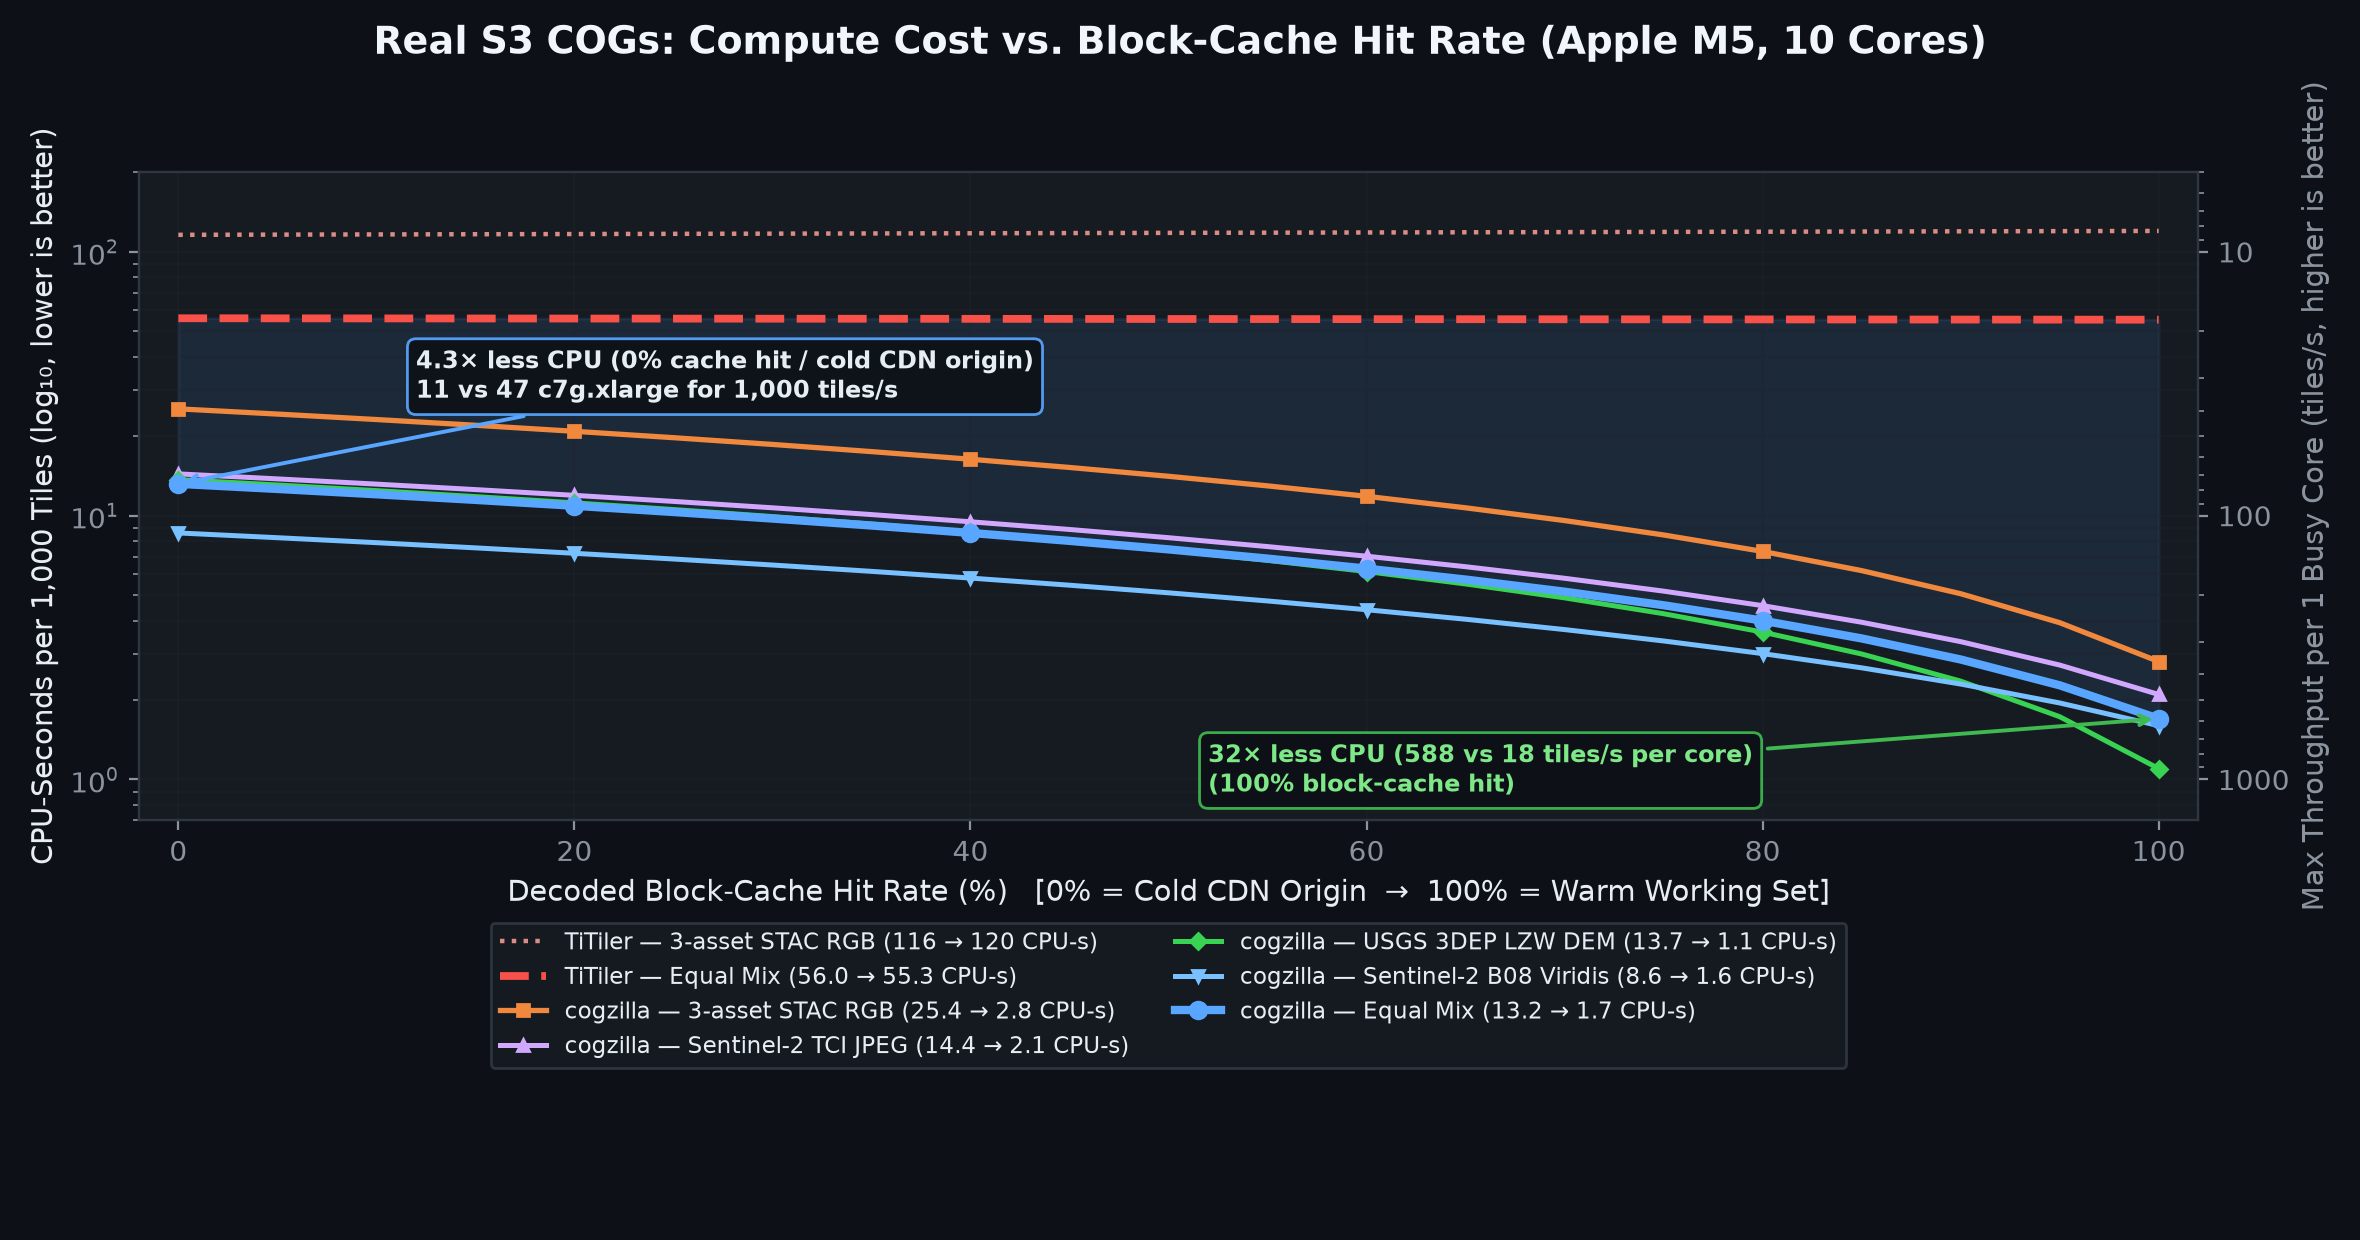
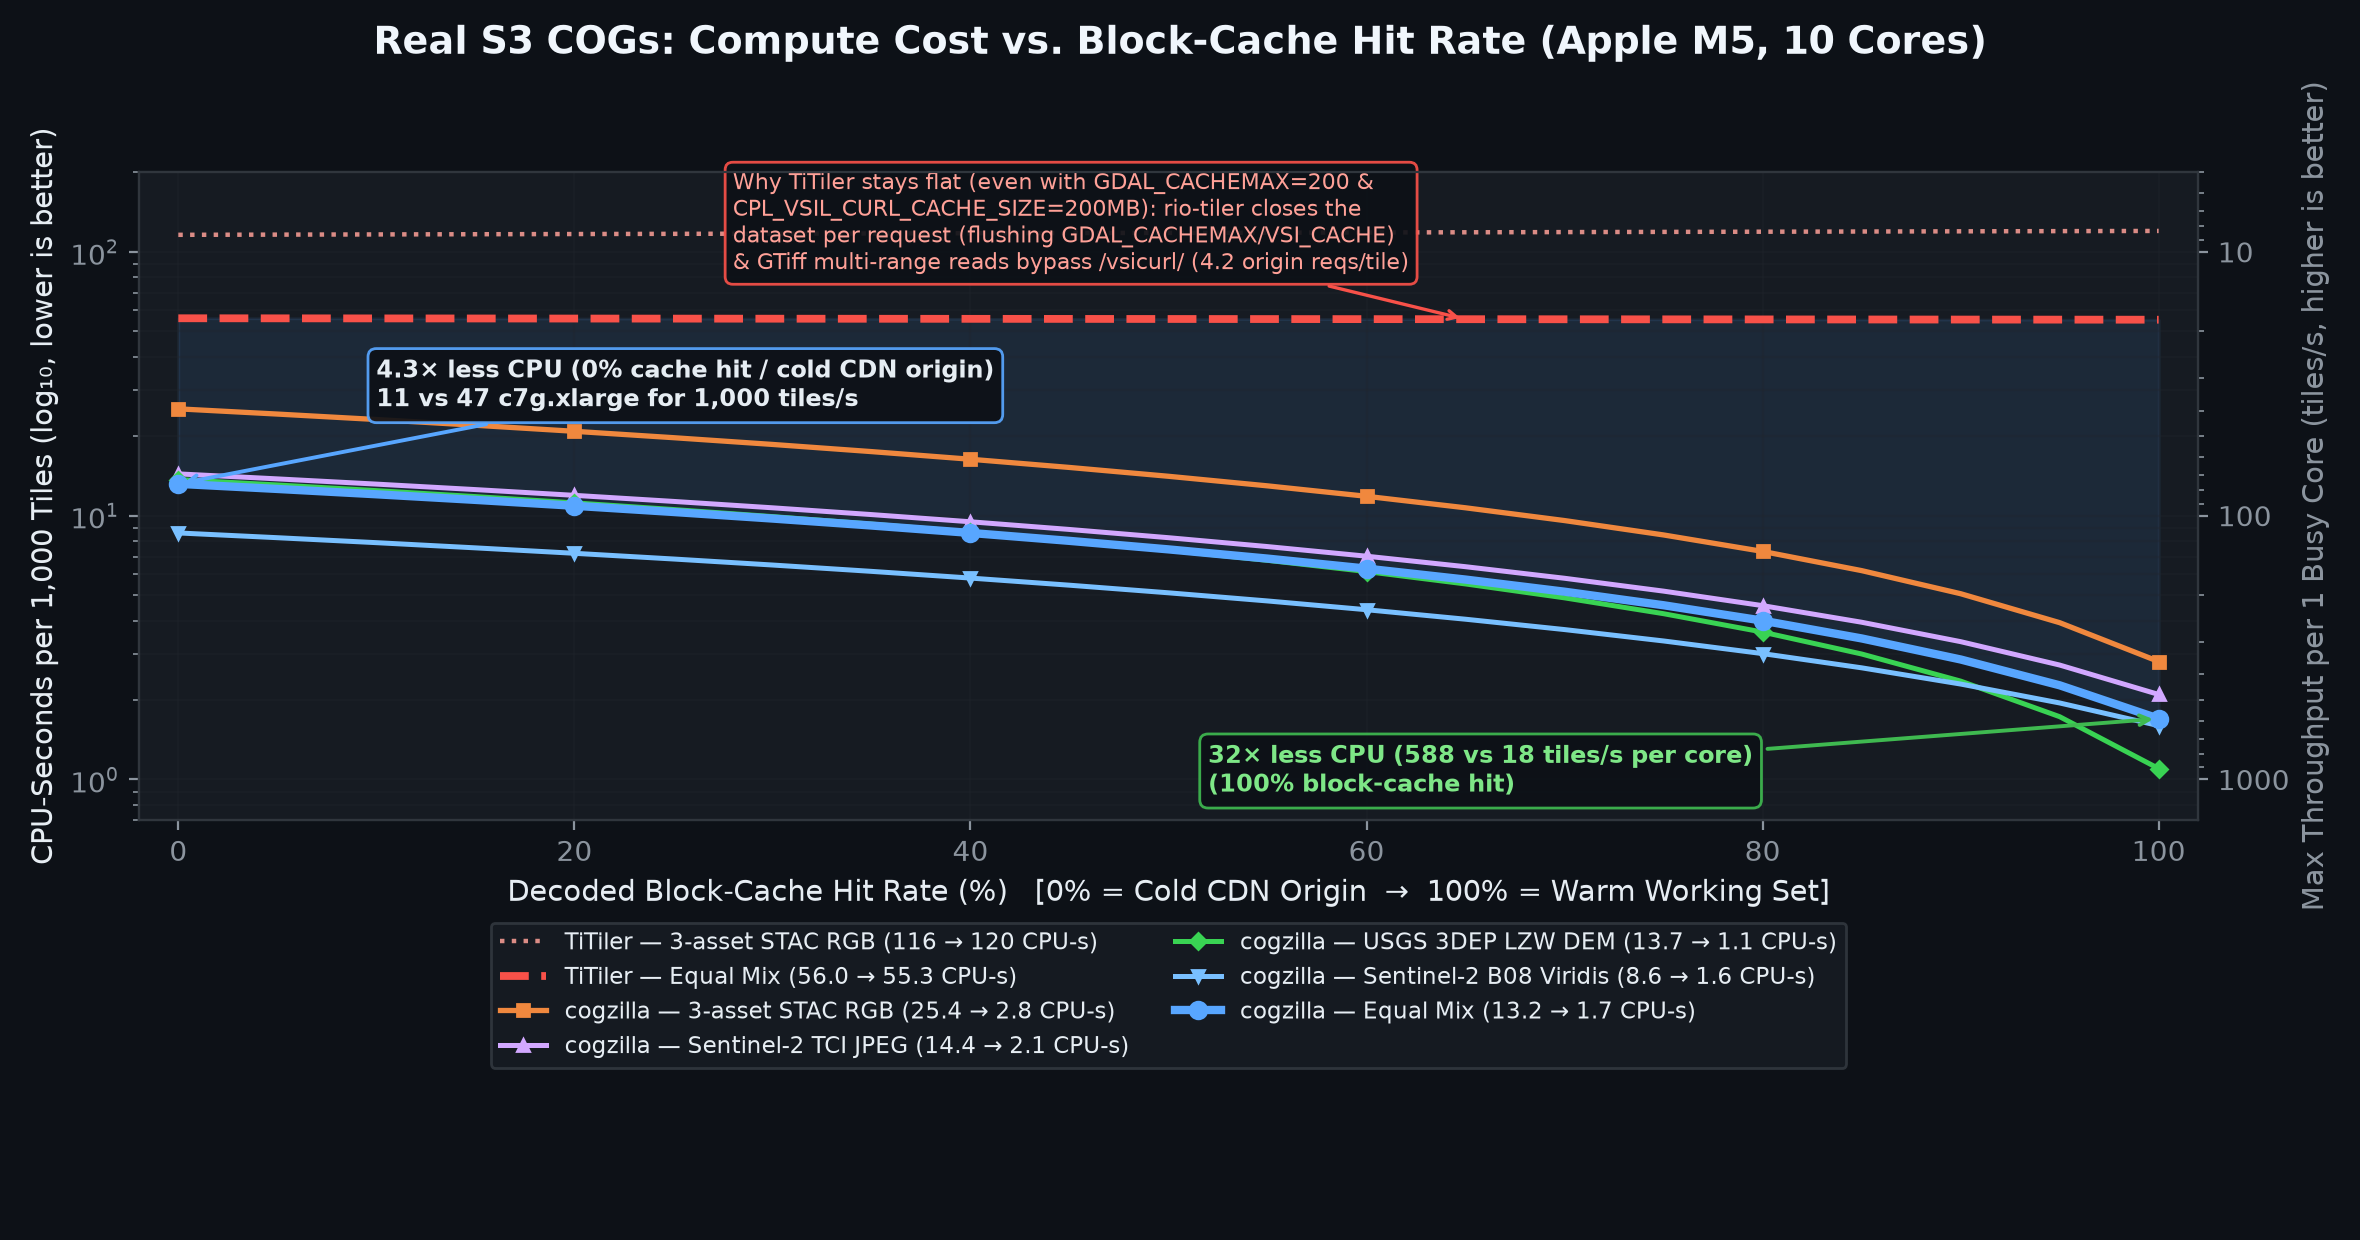
docs(benchmarks): add dedicated 2x2 GPU acceleration chart and document verified GDAL/TiTiler caching behavior

Changed region(s): [[0.1547, 0.1226, 0.6186, 0.3677], [0.4949, 0.5823, 0.7424, 0.6129], [0.5877, 0.2452, 0.6186, 0.2758]]

diff --git a/benches/plot_benchmarks.py b/benches/plot_benchmarks.py
@@ -387,16 +387,23 @@ def render_s3_cache_scaling() -> None:
 
     ax1.annotate(
         "4.3× less CPU (0% cache hit / cold CDN origin)\n11 vs 47 c7g.xlarge for 1,000 tiles/s",
-        xy=(0, 13.2), xytext=(12, 28),
+        xy=(0, 13.2), xytext=(10, 26),
         arrowprops=dict(arrowstyle="->", color=C_RTX, lw=1.4),
-        fontsize=8.8, fontweight="bold",
+        fontsize=8.6, fontweight="bold",
         bbox=dict(boxstyle="round,pad=0.35", fc="#0d1117", ec=C_RTX, alpha=0.92),
+    )
+    ax1.annotate(
+        "Why TiTiler stays flat (even with GDAL_CACHEMAX=200 &\nCPL_VSIL_CURL_CACHE_SIZE=200MB): rio-tiler closes the\ndataset per request (flushing GDAL_CACHEMAX/VSI_CACHE)\n& GTiff multi-range reads bypass /vsicurl/ (4.2 origin reqs/tile)",
+        xy=(65, 55.5), xytext=(28, 86),
+        arrowprops=dict(arrowstyle="->", color=C_TT, lw=1.2),
+        fontsize=7.9, color="#ffa198",
+        bbox=dict(boxstyle="round,pad=0.35", fc="#0d1117", ec=C_TT, alpha=0.92),
     )
     ax1.annotate(
         "32× less CPU (588 vs 18 tiles/s per core)\n(100% block-cache hit)",
         xy=(100, 1.7), xytext=(52, 0.9),
         arrowprops=dict(arrowstyle="->", color=C_M5G, lw=1.4),
-        fontsize=8.8, fontweight="bold", color="#7ee787",
+        fontsize=8.6, fontweight="bold", color="#7ee787",
         bbox=dict(boxstyle="round,pad=0.35", fc="#0d1117", ec=C_M5G, alpha=0.92),
     )
 
@@ -409,9 +416,131 @@ def render_s3_cache_scaling() -> None:
     plt.close(fig)
 
 
+def render_gpu_scaling() -> None:
+    """Graph 4 (2x2): Dedicated GPU acceleration overview — heavy single-request endpoints
+    (1-core CPU vs Metal vs Vulkan latency & speedup) and sustained map-server soak
+    (CPU-only vs GPU auto continuous batching throughput & latency, 3x medians at 3787b88)."""
+    fig, ((ax1, ax2), (ax3, ax4)) = plt.subplots(2, 2, figsize=(14.5, 9.8), dpi=200)
+    fig.suptitle(
+        "GPU Acceleration (wgpu Metal & Vulkan) — Heavy Endpoints & Sustained Map-Server Soak",
+        fontsize=14, fontweight="bold", y=0.985, color="#f0f6fc",
+    )
+
+    workloads = [
+        "4096² UTM→WGS84\nGrid2D Stats",
+        "2048² 4-Band\n/cog/statistics",
+        "4096² Polygon\nMasked Stats",
+        "4096² RGB\nLanczos3 JPEG",
+        "2048² Exact\n4-Band Zonal",
+        "2048²×12 Median\nMosaic → JPEG",
+    ]
+    rtx_ms = np.array([1.33, 1.37, 4.36, 32.26, 36.29, 31.12])
+    m5g_ms = np.array([8.93, 5.28, 7.64, 56.53, 17.66, 33.12])
+    rtx_sp = np.array([702.5, 424.5, 85.5, 405.3, 9.4, 7.7])
+    m5g_sp = np.array([42.5, 47.7, 23.6, 85.7, 5.8, 4.4])
+    tr_cpu_ms = rtx_ms * rtx_sp
+    m5_cpu_ms = m5g_ms * m5g_sp
+
+    # Top-Left (A): Heavy Endpoints Latency (ms, log10)
+    x = np.arange(len(workloads))
+    ax1.plot(x, tr_cpu_ms, "-^", color=C_TR,  lw=2.2, ms=7.0, label="Threadripper 3960X CPU (1 core)")
+    ax1.plot(x, m5_cpu_ms, "-D", color=C_M5C, lw=2.2, ms=6.5, label="Apple M5 CPU (1 core)")
+    ax1.plot(x, m5g_ms,    "-s", color=C_M5G, lw=2.5, ms=7.0, label="Apple M5 GPU (Metal, floor ≈ 1.5 ms)")
+    ax1.plot(x, rtx_ms,    "-o", color=C_RTX, lw=2.5, ms=7.0, label="RTX 3090 Ti (Vulkan, floor ≈ 50 µs)")
+
+    ax1.set_yscale("log")
+    ax1.set_ylim(0.5, 40000)
+    ax1.set_xticks(x)
+    ax1.set_xticklabels(workloads, fontsize=8.0)
+    ax1.set_ylabel("Single-Request Latency (ms, log₁₀, lower is better)")
+    ax1.set_title("A. Heavy Endpoints: 1-Core CPU vs. Metal vs. Vulkan")
+    ax1.grid(True, axis="y", which="both", alpha=0.35)
+    ax1.legend(loc="upper right", fontsize=7.9, framealpha=0.92)
+
+    # Top-Right (B): Heavy Endpoints GPU Speedup (vs 1-core CPU)
+    w = 0.36
+    ax2.bar(x - w / 2, rtx_sp, width=w, color=C_RTX, alpha=0.92, label="RTX 3090 Ti (Vulkan) vs 1-core 3960X")
+    ax2.bar(x + w / 2, m5g_sp, width=w, color=C_M5G, alpha=0.92, label="Apple M5 (Metal) vs 1-core M5")
+
+    ax2.set_yscale("log")
+    ax2.set_ylim(1, 2200)
+    ax2.set_xticks(x)
+    ax2.set_xticklabels(workloads, fontsize=8.0)
+    ax2.set_ylabel("Speedup vs. 1-Core CPU (×, log₁₀, higher is better)")
+    ax2.set_title("B. Heavy Endpoints: GPU Speedup Factor")
+    ax2.grid(True, axis="y", which="both", alpha=0.35)
+    for i in range(len(workloads)):
+        ax2.text(x[i] - w / 2, rtx_sp[i] * 1.12, f"{rtx_sp[i]:.0f}×" if rtx_sp[i] >= 10 else f"{rtx_sp[i]:.1f}×",
+                 ha="center", va="bottom", fontsize=8.0, color="#79c0ff", fontweight="bold")
+        ax2.text(x[i] + w / 2, m5g_sp[i] * 1.12, f"{m5g_sp[i]:.0f}×" if m5g_sp[i] >= 10 else f"{m5g_sp[i]:.1f}×",
+                 ha="center", va="bottom", fontsize=8.0, color="#7ee787", fontweight="bold")
+    ax2.legend(loc="upper right", fontsize=8.0, framealpha=0.92)
+
+    # Bottom-Left (C): Sustained Map-Server Soak Throughput (RTX 3090 Ti vs 3960X 24C/48T, 3x med)
+    soak_lbls = [
+        "Pan & Zoom\n(16c mixed)",
+        "Mixed Tile Flood\n(32c, 0ms think)",
+        "Contention:\nLive Tiles (12c)",
+        "Contention:\nHeavy 2048² (2c)",
+    ]
+    tr_cpu_soak = [2215, 8400, 1828, 7]
+    rtx_soak    = [2560, 11197, 2183, 45]
+    xs = np.arange(len(soak_lbls))
+    ax3.bar(xs - w / 2, tr_cpu_soak, width=w, color=C_TR,  alpha=0.88, label="Threadripper 3960X CPU-only (24C/48T)")
+    ax3.bar(xs + w / 2, rtx_soak,    width=w, color=C_RTX, alpha=0.92, label="RTX 3090 Ti GPU auto (Vulkan coalesced)")
+
+    ax3.set_yscale("log")
+    ax3.set_ylim(2, 35000)
+    ax3.set_xticks(xs)
+    ax3.set_xticklabels(soak_lbls, fontsize=8.5)
+    ax3.set_ylabel("Throughput (req/s, log₁₀, higher is better)")
+    ax3.set_title("C. Sustained Soak Throughput (3960X + RTX 3090 Ti, 3× Medians)")
+    ax3.grid(True, axis="y", which="both", alpha=0.35)
+    for i in range(len(soak_lbls)):
+        ax3.text(xs[i] - w / 2, tr_cpu_soak[i] * 1.12, f"{tr_cpu_soak[i]:,}",
+                 ha="center", va="bottom", fontsize=8.0, color="#ffa657")
+        ratio = rtx_soak[i] / tr_cpu_soak[i]
+        ax3.text(xs[i] + w / 2, rtx_soak[i] * 1.12, f"{rtx_soak[i]:,}\n({ratio:.1f}×)",
+                 ha="center", va="bottom", fontsize=8.0, color="#79c0ff", fontweight="bold")
+    ax3.legend(loc="upper right", fontsize=8.0, framealpha=0.92)
+
+    # Bottom-Right (D): Sustained Soak Latency (Heavy 2048^2 p50 & Mixed Flood p99 across both hosts)
+    lat_lbls = [
+        "Apple M5\nMixed Flood\n(p99)",
+        "Apple M5\nHeavy 2048²\n(p50)",
+        "3960X + 3090 Ti\nMixed Flood\n(p50)",
+        "3960X + 3090 Ti\nHeavy 2048²\n(p50)",
+    ]
+    cpu_lat = [58.4, 120.2, 3.0, 237.7]
+    gpu_lat = [31.1, 34.6,  2.5, 46.4]
+    xl = np.arange(len(lat_lbls))
+    ax4.bar(xl - w / 2, cpu_lat, width=w, color=C_TR,  alpha=0.88, label="CPU-Only (all cores)")
+    ax4.bar(xl + w / 2, gpu_lat, width=w, color=C_M5G, alpha=0.92, label="GPU auto (Metal / Vulkan)")
+
+    ax4.set_yscale("log")
+    ax4.set_ylim(1, 600)
+    ax4.set_xticks(xl)
+    ax4.set_xticklabels(lat_lbls, fontsize=8.5)
+    ax4.set_ylabel("Latency (ms, log₁₀, lower is better)")
+    ax4.set_title("D. Sustained Soak Latency: CPU-Only vs. GPU Continuous Batching")
+    ax4.grid(True, axis="y", which="both", alpha=0.35)
+    for i in range(len(lat_lbls)):
+        ax4.text(xl[i] - w / 2, cpu_lat[i] * 1.12, f"{cpu_lat[i]:.1f}ms",
+                 ha="center", va="bottom", fontsize=8.0, color="#ffa657")
+        gain = cpu_lat[i] / gpu_lat[i]
+        ax4.text(xl[i] + w / 2, gpu_lat[i] * 1.12, f"{gpu_lat[i]:.1f}ms\n({gain:.1f}×)",
+                 ha="center", va="bottom", fontsize=8.0, color="#7ee787", fontweight="bold")
+    ax4.legend(loc="upper left", fontsize=8.2, framealpha=0.92)
+
+    fig.tight_layout(rect=[0, 0, 1, 0.955])
+    fig.savefig(ASSETS / "bench-gpu-scaling.png", dpi=200)
+    plt.close(fig)
+
+
 if __name__ == "__main__":
     ASSETS.mkdir(parents=True, exist_ok=True)
     render_concurrency_overload()
     render_workload_contention()
     render_s3_cache_scaling()
-    print(f"Wrote 3 benchmark charts to {ASSETS}")
+    render_gpu_scaling()
+    print(f"Wrote 4 benchmark charts to {ASSETS}")

diff --git a/docs/benchmarks.md b/docs/benchmarks.md
@@ -40,7 +40,7 @@ Each cell is `cogzilla` against TiTiler on the same machine. The two columns dif
 - **The local multiples depend on the machine.** Warm PNG tiles are 39–75× on the M5 and 24–43× on the 4-vCPU Linux runner; HTTP throughput is 40–73× and 22–40×. The Linux figures are one run on a hosted shared runner (`generic` release build); GitHub assigns a different CPU model from run to run, and TiTiler's own time for the same tile has varied between 21 ms and 31 ms across runs. Quote the Linux range if you need one number for a typical cloud instance.
 - **Not every path is that far ahead.** On the Linux x86-64 run (`45302863059`), lossy WebP output is **10.9×** faster warm (**7.0×** cold) vs GDAL, and first-touch (cold) local PNG tiles are 8.4–21.5× faster (low-zoom multi-file scenes are 23–32× faster with adaptive quadtree projection). One raw decode path remains slightly slower than GDAL on x86-64 (LZW with predictor 1 at `0.9×`; DEFLATE with predictor 2 is 1.1–1.2× and LZW with predictor 3 is 1.4×). Those are decode-only measurements, and a warm tile does no decoding.
 - **The S3 results are M5-only and from v0.1.0.** The CPU, memory and cost figures in the first table have not been repeated on x86, and have not been re-run since the rendering optimizations in 0.2.0.
-- **The larger multiples (13–62× on S3) need the cache to fit.** `cogzilla` keeps decoded blocks in memory and TiTiler keeps none, which is where the big multiples come from. With the default 512 MiB cache, three of the five S3 workloads outgrew it and fell back to S3. Size `--cache-mb` to your working set and budget about 250 MiB on top.
+- **The larger multiples (13–62× on S3) need the cache to fit.** `cogzilla` keeps decoded blocks in a persistent in-process cache (`CogStore`). GDAL *does* cache COG headers and single-range reads (`GDAL_CACHEMAX=200`, `CPL_VSIL_CURL_CACHE_SIZE=200MB`, `VSI_CACHE=TRUE` were all enabled for TiTiler), but `rio-tiler` opens and closes `rasterio.open(url)` on every HTTP request (flushing `GDAL_CACHEMAX` decoded blocks and per-handle `VSI_CACHE`), and `GTiff` multi-range reads bypass `/vsicurl/`'s global chunk cache — verified against a counting HTTP Range origin on a `3.12 MiB` DEFLATE COG (`4.2` origin reqs/tile and `25.0–25.9 CPU-s/1k` on repeated tiles for both `MERGE_RANGES=YES` and `NO`, vs `0.007` origin reqs/tile and `0.7 CPU-s/1k` on `cogzilla`). With `cogzilla`'s default 512 MiB cache, three of the five S3 workloads outgrew it and fell back to S3; size `--cache-mb` to your working set and budget about 250 MiB on top.
 - **No uncached latency win has been measured.** The S3 run was made from a home network, where both servers were limited by bandwidth and finished roughly level. Lower CPU should become lower latency in-region, but that run has not been done.
 - **The cost row is a model, not a bill.** It assumes a Graviton vCPU does half the work of an M5 core, 60% target utilization, and compute only. The ratio is measured; the instance counts are not.
 - **Same picture, not the same bytes.** Valid-data masks agree with TiTiler on 99.6–100% of pixels; pixel values differ slightly on high-frequency imagery (32–34 dB PSNR on Sentinel-2, 49–54 dB on DEMs).

diff --git a/docs/gpu-benchmarks.md b/docs/gpu-benchmarks.md
@@ -29,6 +29,10 @@ All benchmarks in this document were measured on two hardware configurations (no
 ## Performance Scaling Overview
 
 <p align="center">
+  <img src="../assets/bench-gpu-scaling.png" alt="GPU acceleration across heavy single-request endpoints (1-core CPU vs Apple M5 Metal vs RTX 3090 Ti Vulkan) and sustained map-server soak throughput and latency" width="100%" />
+</p>
+
+<p align="center">
   <img src="../assets/bench-concurrency-overload.png" alt="Apples-to-apples 512x512 RGB Lanczos3 JPEG concurrency scaling (cogzilla vs TiTiler 2.4) and live HTTP AIMD overload tail latency across Apple M5 and Threadripper 3960X + RTX 3090 Ti" width="100%" />
 </p>
 
